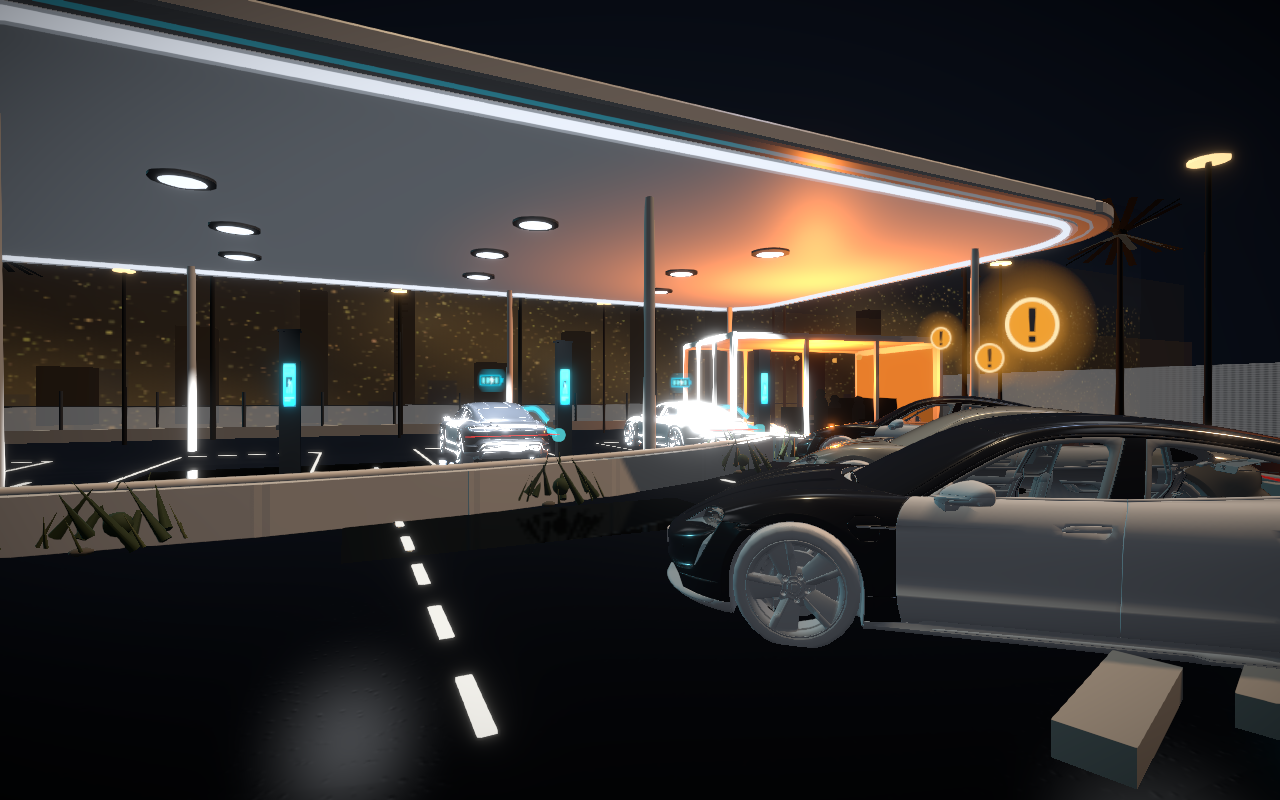
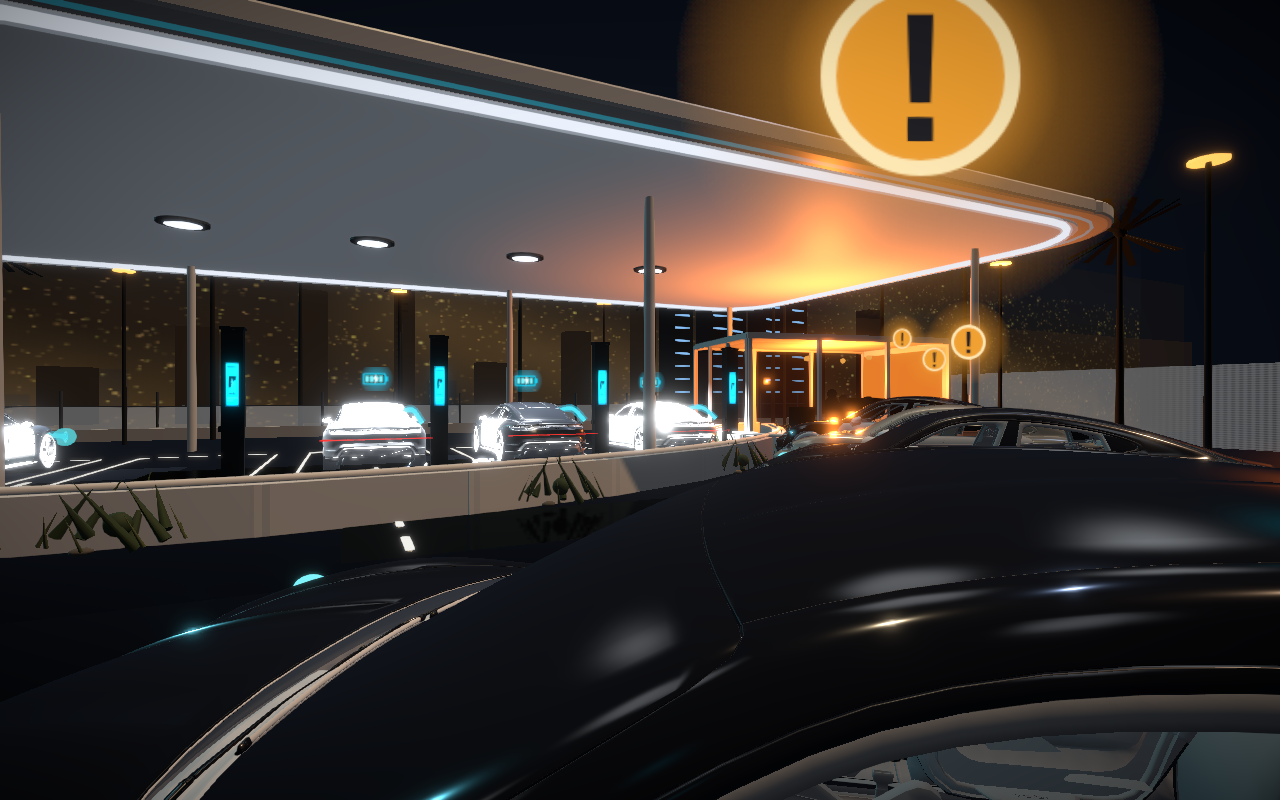
feat: recapture density stills and retune wide camera
Keep six bays and the longer queue after the WebGL-safe trim.
Pull the elevated plate in so occupied stalls stay in frame.

diff --git a/src/world/layout.ts b/src/world/layout.ts
@@ -25,10 +25,10 @@ export const PAVILION = { x: -12.8, z: 3.8, yaw: -0.18 };
 
 /** Elevated wide-still camera: queue left, occupied bays under canopy, city drop. */
 export const WIDE_SHOT = {
-  x: 7.2,
-  z: -22.0,
-  eyeY: 16.2,
-  yaw: 0.12,
-  pitch: -0.7,
-  lookAt: { x: -1.2, y: 1.5, z: 6.8 },
+  x: 4.8,
+  z: -20.6,
+  eyeY: 14.8,
+  yaw: 0.1,
+  pitch: -0.68,
+  lookAt: { x: 0.6, y: 1.25, z: 5.4 },
 } as const;

diff --git a/src/main.ts b/src/main.ts
@@ -97,8 +97,8 @@ function dropIn(): void {
   setHum(true);
   if (state.phase === "title") seedOpeningLot(state);
   hideTitle();
-  walker.place(0.55, -11.4, 0.18, -0.08, 1.48);
-  walker.lookAt(-6.4, 1.42, 3.2);
+  walker.place(1.2, -11.0, 0.12, -0.06, 1.48);
+  walker.lookAt(-4.8, 1.35, 3.8);
 }
 
 function restart(): void {
